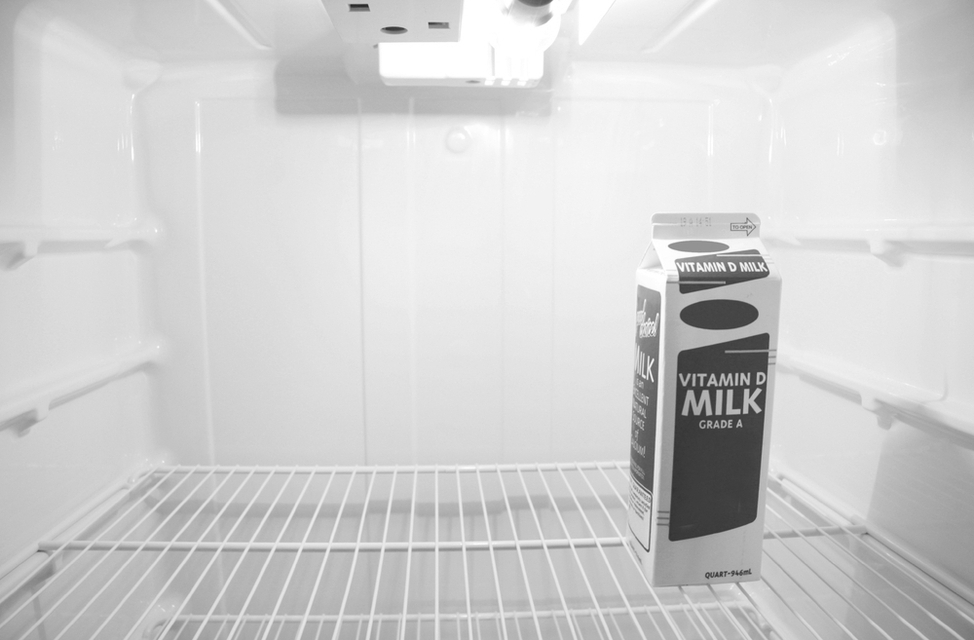
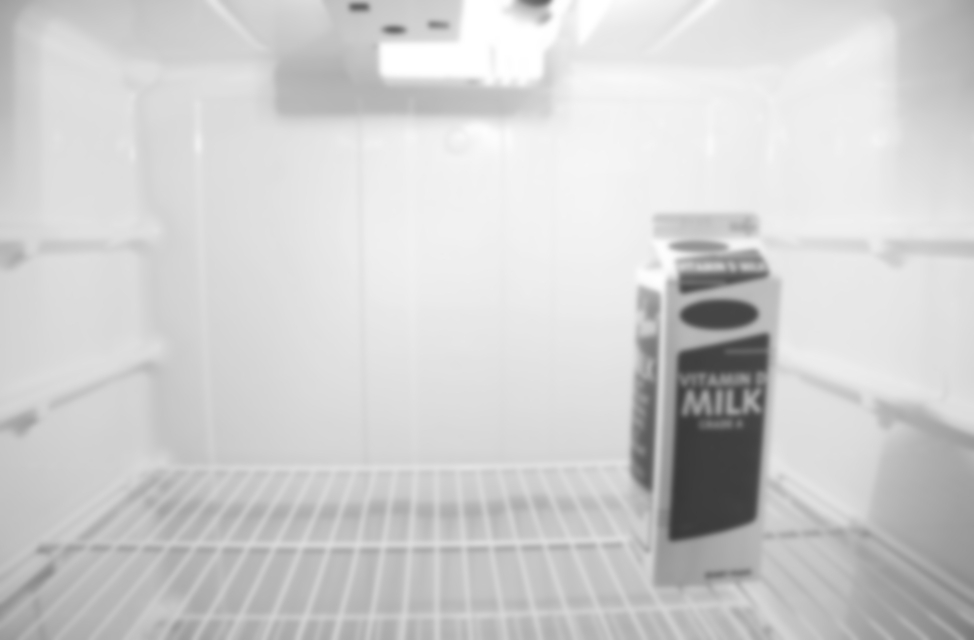
Add blur to parallax photos

diff --git a/client/public/app/auth/landing.html b/client/public/app/auth/landing.html
@@ -50,63 +50,49 @@
   </div>
 </div>
 <!-- End How It Works -->
-
-<!-- Start Authenticate Modal Structure-->
-<div id="modal1" class="modal">
-  <div class="modal-content">
-    <h4>Modal Header</h4>
-    <p>A bunch of text</p>
-  </div>
-  <div class="modal-footer">
-    <a href="#!" class=" modal-action modal-close waves-effect waves-green btn-flat">Agree</a>
-  </div>
-</div>
-<!-- End Authenticate Modal Structure -->
-
 <!-- Start Tech Stack -->
 <div class="grey darken-3 blue-text text-lighten-3">
   <div class="container center-align">
   <br>
     <h3>Powered by:</h3>
     <div class="row col s12" id="tech-stack-container">
-        <div class="col s4">
-          <div class="card">
-            <div class="card-image">
-              <img src="../../img/postgresql.jpg">
-            </div>
-          </div>
-        </div>
-        <div class="col s3">
-          <div class="card extra-small">
-            <div class="card-image">
-              <img src="../../img/angular.jpg">
-            </div>
-          </div>
-        </div>
-        <div class="col s4">
-          <div class="card">
-            <div class="card-image">
-              <img src="../../img/node.jpg">
-            </div>
-          </div>
-        </div>
-        <div class="col s4">
-          <div class="card">
-            <div class="card-image">
-              <img src="../../img/express.png">
-            </div>
+      <div class="col s4">
+        <div class="card">
+          <div class="card-image">
+            <img src="../../img/postgresql.jpg">
           </div>
         </div>
       </div>
-    <br>
+      <div class="col s3">
+        <div class="card extra-small">
+          <div class="card-image">
+            <img src="../../img/angular.jpg">
+          </div>
+        </div>
+      </div>
+      <div class="col s4">
+        <div class="card">
+          <div class="card-image">
+            <img src="../../img/node.jpg">
+          </div>
+        </div>
+      </div>
+      <div class="col s4">
+        <div class="card">
+          <div class="card-image">
+            <img src="../../img/express.png">
+          </div>
+        </div>
+      </div>
+    </div>
+  <br>
   </div>
 </div>
 <!-- End Tech Stack -->
-
 <!-- Start FAQ Collapsible Popout -->
 <div class="hide-on-small-only">
   <div class="parallax-container">
-    <div class="parallax"><img src="../../img/fridge2-2.jpg"></div>
+    <div class="parallax"><img src="../../img/fridge2-3.jpg"></div>
     <h2 class="center-align white-text">FAQ</h2>
     <div class="container">
       <ul class="collapsible popout" data-collapsible="accordion">
